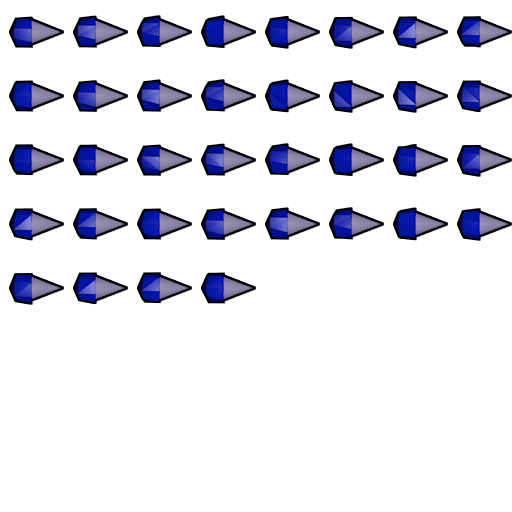
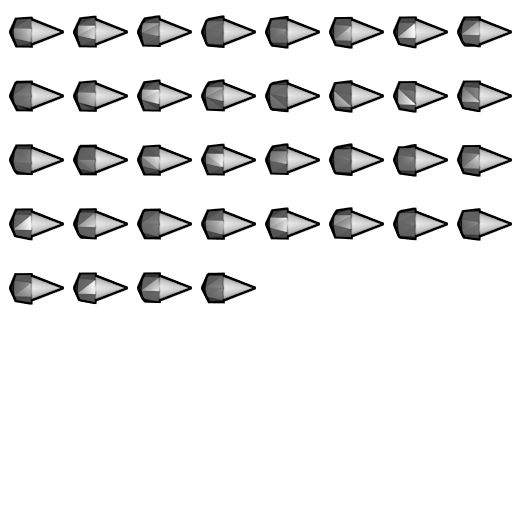
modified LaserGun and LaserBullet to have a color parameter to define the gun and bullet colors

diff --git a/superflyingthing-core/src/main/java/com/gemserk/games/superflyingthing/templates/EntityTemplates.java b/superflyingthing-core/src/main/java/com/gemserk/games/superflyingthing/templates/EntityTemplates.java
@@ -299,6 +299,7 @@ public class EntityTemplates {
 			parameters.put("y", new Float(0f));
 			parameters.put("angle", new Float(0f));
 			parameters.put("damage", new Float(1f));
+			parameters.put("color", Colors.lightBlue);
 		}
 
 		@Override
@@ -314,6 +315,7 @@ public class EntityTemplates {
 			Sprite sprite = parameters.get("sprite", (Sprite) resourceManager.getResourceValue("LaserSprite"));
 			Script script = parameters.get("script", new LaserBulletScript(physicsWorld, entityFactory, getParticleEmitterTemplate()));
 			Integer duration = parameters.get("duration", 1000);
+			Color color = parameters.get("color");
 
 			Float x = parameters.get("x");
 			Float y = parameters.get("y");
@@ -330,7 +332,7 @@ public class EntityTemplates {
 
 			entity.addComponent(new SpatialComponent(bulletSpatial));
 			entity.addComponent(new ScriptComponent(script));
-			entity.addComponent(new SpriteComponent(sprite, new Vector2(0f, 0.5f), Colors.lightBlue));
+			entity.addComponent(new SpriteComponent(sprite, new Vector2(0f, 0.5f), color));
 			entity.addComponent(new RenderableComponent(2));
 			entity.addComponent(new Components.TimerComponent(duration));
 			entity.addComponent(new Components.DamageComponent(damage));
@@ -349,6 +351,7 @@ public class EntityTemplates {
 			parameters.put("fireRate", new Integer(1000));
 			parameters.put("bulletDuration", new Integer(250));
 			parameters.put("currentReloadTime", new Integer(0));
+			parameters.put("color", Colors.lightGreen);
 		}
 
 		@Override
@@ -368,13 +371,15 @@ public class EntityTemplates {
 			Integer fireRate = parameters.get("fireRate");
 			Integer bulletDuration = parameters.get("bulletDuration");
 			Integer currentReloadTime = parameters.get("currentReloadTime");
+			
+			Color color = parameters.get("color");
 
 			Entity owner = parameters.get("owner");
 
 			entity.addComponent(new SpatialComponent(new SpatialImpl(position.x, position.y, 1f, 1f, angle)));
 			entity.addComponent(new ScriptComponent(script));
 			entity.addComponent(new AnimationComponent(new Animation[] { idleAnimation }));
-			entity.addComponent(new SpriteComponent(idleAnimation.getCurrentFrame(), Color.WHITE));
+			entity.addComponent(new SpriteComponent(idleAnimation.getCurrentFrame(), color));
 			entity.addComponent(new RenderableComponent(3));
 			entity.addComponent(new Components.WeaponComponent(fireRate, bulletDuration, currentReloadTime, laserBulletTemplate));
 			entity.addComponent(new OwnerComponent(owner));

diff --git a/superflyingthing-core/src/main/java/com/gemserk/games/superflyingthing/scripts/LaserGunScript.java b/superflyingthing-core/src/main/java/com/gemserk/games/superflyingthing/scripts/LaserGunScript.java
@@ -30,10 +30,14 @@ public class LaserGunScript extends ScriptJavaImpl {
 		reloadTime -= world.getDelta();
 
 		if (reloadTime <= 0) {
+
+			SpriteComponent spriteComponent = ComponentWrapper.getSpriteComponent(e);
+
 			bulletParameters.put("owner", e);
 			bulletParameters.put("x", 0.5f);
 			bulletParameters.put("damage", 3000f);
 			bulletParameters.put("duration", weaponComponent.getBulletDuration());
+			bulletParameters.put("color", spriteComponent.getColor());
 
 			EntityTemplate bulletTemplate = weaponComponent.getBulletTemplate();
 			entityFactory.instantiate(bulletTemplate, bulletParameters);
